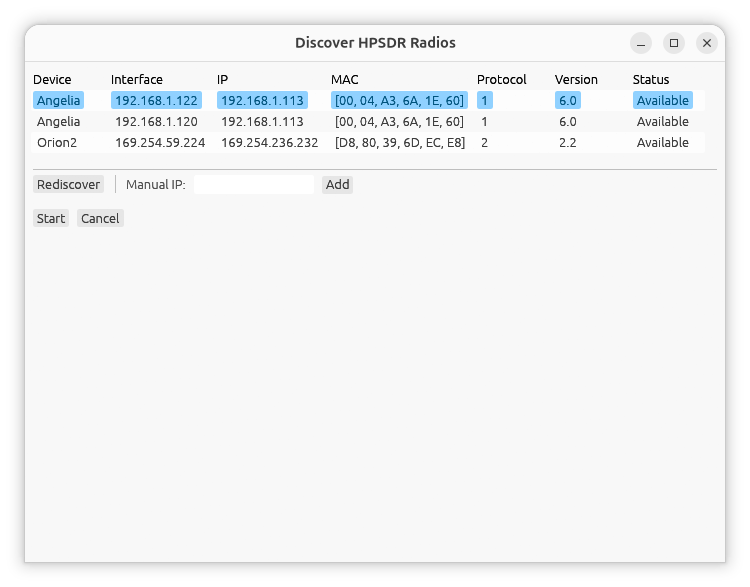
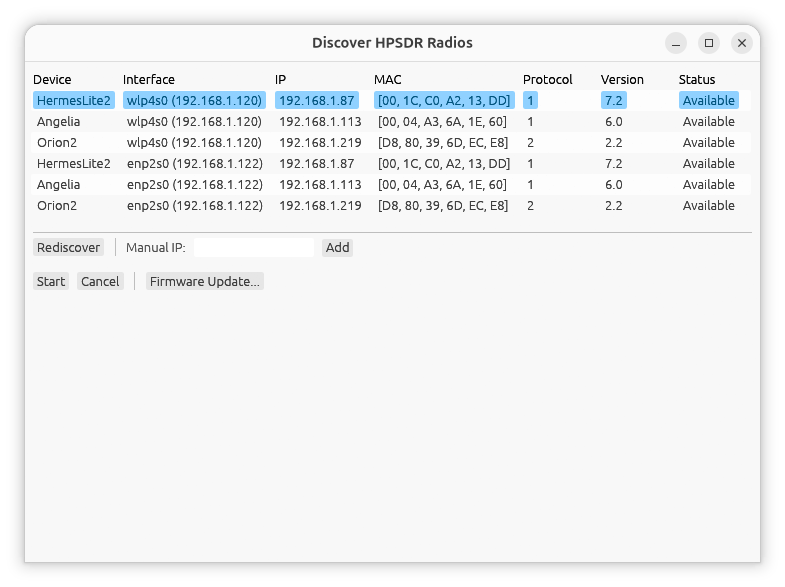
docs: give XVTR its own manual page; update manual screenshots
XVTR was only documented as a buried subsection of the Main Window
page, unlike every other Settings tab (PA Calibration, PureSignal,
Diversity, Equalizer), which each get a dedicated page. Adds
docs/manual/14-xvtr.md, links it from the README index and the
Firmware Update page's nav, and trims the Main Window page down to a
short pointer.

Also refreshes several manual screenshots (main window, discovery,
S-meter, toggle row, TX meter/active state, VFO A/B) and the top-level
README screenshot.

diff --git a/docs/manual/14-xvtr.md b/docs/manual/14-xvtr.md
@@ -1,0 +1,58 @@
+[← Firmware Update](13-firmware-update.md) | [Index](README.md)
+
+# Settings: XVTR
+
+Open **Settings...** from the main window, then the **XVTR** tab.
+
+(Screenshot needed: images/14-xvtr-tab.png)
+
+Transverters convert this radio's real tunable range (its **IF**) to some
+other operating frequency (**RF**) via an external analog box -- e.g. a 10m
+IF of 28-29.7MHz driving a 2m transverter to cover 144-145.7MHz. This tab
+lets you define up to 8 of them.
+
+One row per slot, each with:
+
+- **Name** -- anything you like; an empty name marks the slot unused (the
+  other fields are ignored until you set one).
+- **RF Min/Max** -- the transverter's operating range, in the frequency you
+  actually want to see and work on.
+- **LO Offset** -- the transverter's own local-oscillator offset, such that
+  `RF = IF + LO Offset + LO Error`.
+- **LO Error** -- a small trim on top of LO Offset, for whatever the real
+  LO measures in practice (kept separate so you don't have to recompute the
+  nominal offset every time you touch it).
+- **Disable PA** -- when checked, this radio's internal PA and antenna T/R
+  relay are left alone while transmitting on this band, so full PA
+  drive/relay switching never gets routed into a transverter's low-level IF
+  input. This does **not** limit drive level by itself -- keep TX Power low
+  regardless; it only stops the internal PA/relay from engaging.
+
+## Using a configured transverter
+
+A configured, in-range slot appears as an extra button alongside the
+ordinary [band row](02-main-window.md#bands-and-modes) -- only if its
+corresponding IF range actually fits this radio's native tunable range.
+Clicking it retunes to the slot's RF minimum. While active:
+
+- VFO-A, the spectrum/waterfall frequency axis, and
+  [CAT/rigctl/TCI](03-settings-network.md) frequency reporting all show the
+  real RF frequency, even though the radio's actual hardware LO stays at
+  the true IF underneath.
+- Clicking back to an ordinary band leaves the transverter and returns to
+  plain IF display.
+
+## Limitations
+
+- Supports up to ~4.3GHz of RF range (covers roughly 2m through 9cm) -- not
+  microwave/QO-100-class transverters.
+- Main receiver only -- extra receiver windows and
+  [PA Calibration](08-pa-calibration.md) don't know about configured
+  transverters.
+- This feature has not been verified against real transverter hardware --
+  bench-test at low power before relying on it, same as any other TX-path
+  change in this project.
+
+---
+
+[← Firmware Update](13-firmware-update.md) | [Index](README.md)

diff --git a/docs/manual/02-main-window.md b/docs/manual/02-main-window.md
@@ -71,39 +71,10 @@ all -- e.g. HermesLite/HermesLite2 cap out around 30.72MHz, so **6m**
 → PA Calibration's per-band list and to extra receiver windows' own band
 row.
 
-### Transverters (XVTR)
-
-Settings → **XVTR** lets you define up to 8 transverters -- external boxes
-that convert this radio's real tunable range (its IF) to some other
-operating frequency (RF), e.g. a 10m IF of 28-29.7MHz driving a 2m
-transverter to cover 144-145.7MHz. Each slot has:
-
-- **Name** -- anything you like; an empty name marks the slot unused.
-- **RF Min/Max** -- the transverter's operating range, in the frequency
-  you actually want to see and work on.
-- **LO Offset** -- the transverter's own local-oscillator offset, such that
-  `RF = IF + LO Offset + LO Error`.
-- **LO Error** -- a small trim on top of LO Offset, for whatever the real
-  LO measures in practice (kept separate so you don't have to recompute
-  the nominal offset every time you touch it).
-- **Disable PA** -- when checked, this radio's internal PA and antenna
-  T/R relay are left alone while transmitting on this band, so full PA
-  drive/relay switching never gets routed into a transverter's low-level
-  IF input. Leave TX Power low regardless -- this checkbox does not limit
-  drive level, it only stops the internal PA/relay from engaging.
-
-A configured, in-range transverter appears as an extra button alongside
-the ordinary band row (only if its corresponding IF range actually fits
-this radio's native tunable range). Clicking it retunes to the band's RF
-minimum; VFO-A, the spectrum/waterfall frequency axis, and CAT/rigctl/TCI
-frequency reporting all show the real RF frequency while a transverter
-band is active, even though the radio's actual hardware LO stays at the
-true IF underneath. Only ~4.3GHz of RF range is supported (covers roughly
-2m through 9cm) -- not microwave/QO-100-class transverters. Transverter
-bands are main-receiver-only for now: extra receiver windows and PA
-Calibration don't know about them. This feature has not been verified
-against real transverter hardware -- bench-test at low power before
-relying on it, same as any other TX-path change in this project.
+A configured [transverter](14-xvtr.md) (Settings → **XVTR**) appears as an
+extra button alongside the band row, showing the real RF frequency (e.g.
+2m) while the radio's actual hardware stays tuned to its true IF
+underneath -- see [Settings: XVTR](14-xvtr.md) for how to define one.
 
 Below that, a row of mode buttons: **LSB, USB, DSB, CWL, CWU, FM, AM, DIGU,
 SPEC, DIGL, SAM, DRM**.

diff --git a/docs/manual/README.md b/docs/manual/README.md
@@ -19,6 +19,7 @@ from source and project status, see the [top-level README](../../README.md).
 11. [Settings: Equalizer](11-equalizer.md) -- RX/TX graphic EQ
 12. [Extra Receivers](12-extra-receivers.md) -- adding independent receiver windows
 13. [Firmware Update](13-firmware-update.md) -- updating FPGA firmware and changing a radio's IP, in bootloader mode or in-application
+14. [Settings: XVTR](14-xvtr.md) -- defining transverters (IF-to-RF band conversion)
 
 **PDF**: this whole manual is also available as a single PDF, useful for
 offline/printed reading. It's built automatically by the "Manual PDF"

diff --git a/docs/manual/13-firmware-update.md b/docs/manual/13-firmware-update.md
@@ -1,4 +1,4 @@
-[← Extra Receivers](12-extra-receivers.md) | [Index](README.md)
+[← Extra Receivers](12-extra-receivers.md) | [Index](README.md) | [XVTR →](14-xvtr.md)
 
 # Firmware Update
 
@@ -111,4 +111,4 @@ check the error shown before trying again.
 
 ---
 
-[← Extra Receivers](12-extra-receivers.md) | [Index](README.md)
+[← Extra Receivers](12-extra-receivers.md) | [Index](README.md) | [XVTR →](14-xvtr.md)
